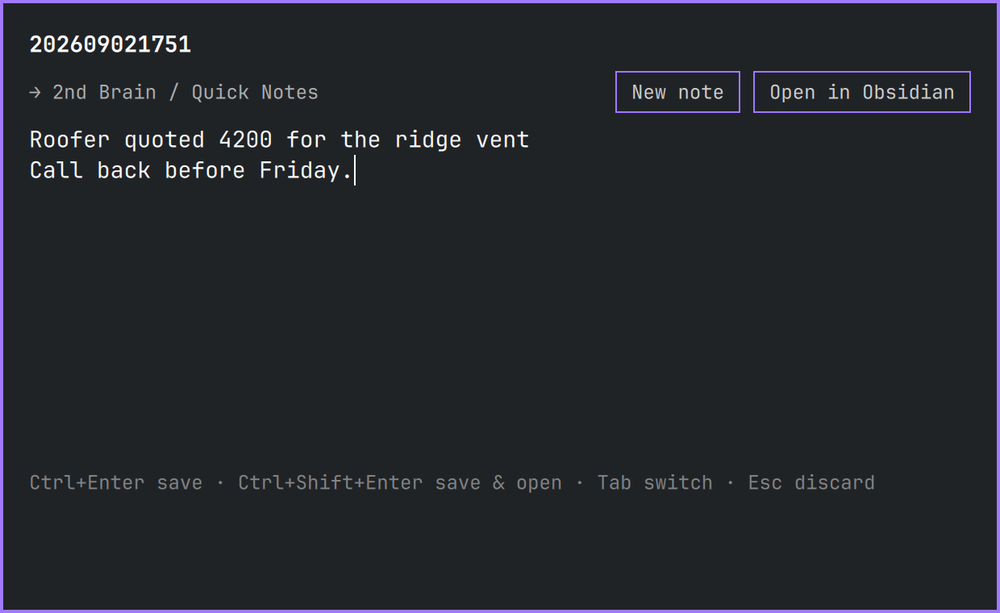
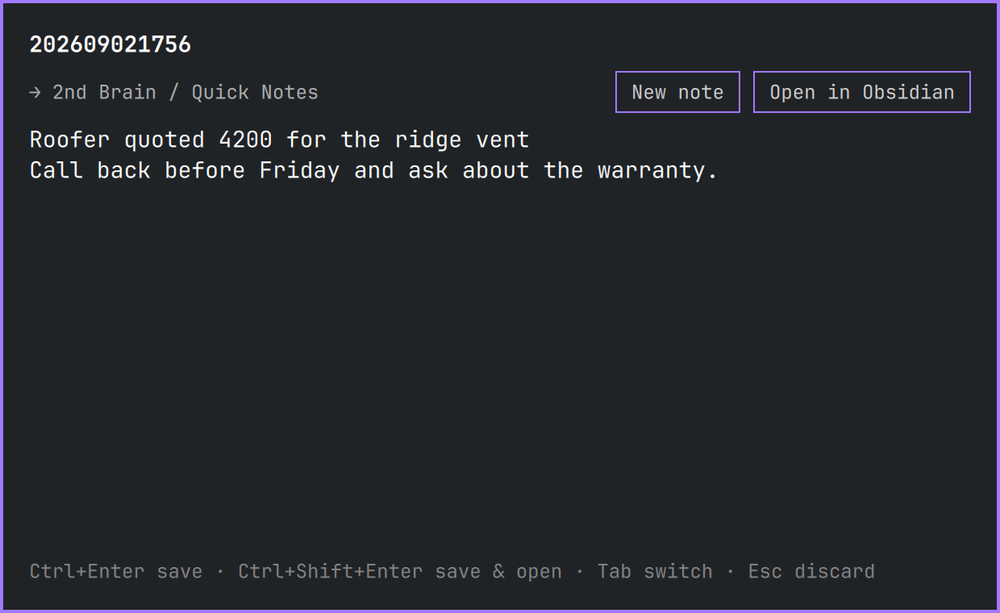
Pin the hint to the card floor and follow the caret when scrolling
Two layout bugs. The card used a Column, which sized the editor from a
constant and left the hint wherever the editor happened to end rather
than at the bottom of the card. It is anchored now: title and header at
the top, hint on the floor, editor filling what is left.

The editor also did not scroll. A Flickable does not follow the caret on
its own, so text typed past the bottom of the card went out of view --
it was written correctly and saved in full, but you could not see it.
ensureVisible now runs on cursorRectangleChanged and again, deferred, on
textChanged: fast input can outrun text layout, leaving cursorRectangle
stale for a frame, which left the view lagging several lines behind.

preview.png regenerated against the corrected layout.

diff --git a/QuickNote.qml b/QuickNote.qml
@@ -192,13 +192,13 @@ Item {
 
       MouseArea { anchors.fill: parent; onClicked: editor.forceActiveFocus() }
 
-      Column {
+      Item {
         anchors.fill: parent
         anchors.margins: Style.spacing.panelPadding
-        spacing: Style.spacing.md
 
         Text {
-          width: parent.width
+          id: titleText
+          anchors { top: parent.top; left: parent.left; right: parent.right }
           elide: Text.ElideRight
           text: root.noteTitle
           color: root.foreground
@@ -208,7 +208,9 @@ Item {
         }
 
         Item {
-          width: parent.width
+          id: headerRow
+          anchors { top: titleText.bottom; left: parent.left; right: parent.right }
+          anchors.topMargin: Style.spacing.md
           height: Style.space(28)
 
           Text {
@@ -216,7 +218,7 @@ Item {
             anchors.verticalCenter: parent.verticalCenter
             width: parent.width - buttons.width - Style.space(12)
             elide: Text.ElideMiddle
-            text: "→ " + root.destination
+            text: "\u2192 " + root.destination
             color: root.foreground
             opacity: 0.65
             font.family: Style.font.menuFamily
@@ -241,17 +243,50 @@ Item {
           }
         }
 
+        // Pinned to the bottom so the hint sits on the floor of the card rather
+        // than wherever the editor happens to end.
+        Text {
+          id: hintText
+          anchors { bottom: parent.bottom; left: parent.left; right: parent.right }
+          elide: Text.ElideMiddle
+          color: root.failed ? root.urgent : root.foreground
+          opacity: root.status ? 0.85 : 0.45
+          font.family: Style.font.menuFamily
+          font.pixelSize: Style.font.body
+          text: root.status
+                ? (root.failed ? root.status
+                               : (root.mode === "daily" ? "Appended \u2192 " : "Saved \u2192 ")
+                                 + root.status.split("/").slice(-2).join("/"))
+                : "Ctrl+Enter save \u00b7 Ctrl+Shift+Enter save & open \u00b7 Tab switch \u00b7 Esc discard"
+        }
+
         Flickable {
-          width: parent.width
-          height: parent.height - Style.space(136)
+          id: flick
+          anchors {
+            top: headerRow.bottom
+            bottom: hintText.top
+            left: parent.left
+            right: parent.right
+          }
+          anchors.topMargin: Style.spacing.md
+          anchors.bottomMargin: Style.spacing.md
           contentWidth: width
-          contentHeight: editor.paintedHeight
+          contentHeight: Math.max(editor.paintedHeight, editor.implicitHeight)
           clip: true
           interactive: true
+          boundsBehavior: Flickable.StopAtBounds
+
+          // Keep the caret on screen: a Flickable does not follow it on its own,
+          // so text past the bottom of the card would be typed into the void.
+          function ensureVisible(r) {
+            if (contentHeight <= height) { contentY = 0; return }
+            if (contentY >= r.y) contentY = r.y
+            else if (contentY + height <= r.y + r.height) contentY = r.y + r.height - height
+          }
 
           TextEdit {
             id: editor
-            width: parent.width
+            width: flick.width
             color: root.foreground
             font.family: Style.font.menuFamily
             font.pixelSize: Style.font.title
@@ -259,6 +294,12 @@ Item {
             selectByMouse: true
             selectionColor: root.accent
             focus: true
+
+            // Both signals matter: the caret moves on arrow keys without the text
+            // changing, and fast input can outrun layout, leaving cursorRectangle
+            // stale until the next frame -- hence the deferred second pass.
+            onCursorRectangleChanged: flick.ensureVisible(cursorRectangle)
+            onTextChanged: Qt.callLater(function() { flick.ensureVisible(editor.cursorRectangle) })
 
             Keys.priority: Keys.BeforeItem
             Keys.onPressed: function(event) {
@@ -275,20 +316,6 @@ Item {
               }
             }
           }
-        }
-
-        Text {
-          width: parent.width
-          elide: Text.ElideMiddle
-          color: root.failed ? root.urgent : root.foreground
-          opacity: root.status ? 0.85 : 0.45
-          font.family: Style.font.menuFamily
-          font.pixelSize: Style.font.body
-          text: root.status
-                ? (root.failed ? root.status
-                               : (root.mode === "daily" ? "Appended → " : "Saved → ")
-                                 + root.status.split("/").slice(-2).join("/"))
-                : "Ctrl+Enter save · Ctrl+Shift+Enter save & open · Tab switch · Esc discard"
         }
       }
     }
